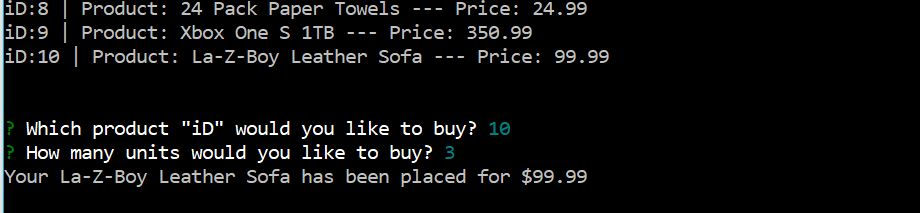
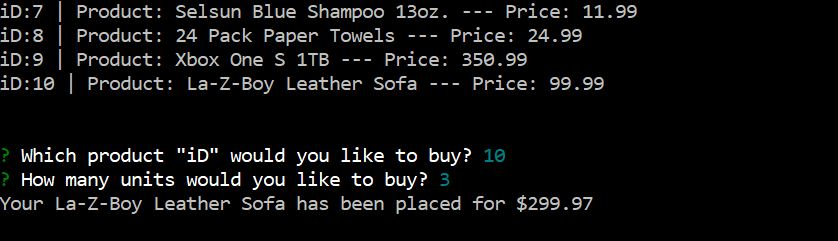
Auto stash before merge of "master" and "origin/master"
js updated

Changed region(s): [[0.0, 0.0, 0.7757, 1.0]]

diff --git a/bamazonCustomer.js b/bamazonCustomer.js
@@ -67,6 +67,8 @@ function afterConnection() {
                 console.log('Insufficient stock. There are only '+ avail + ' item(s) left.');
             }
             else {
+                sell = sell * inventory;
+                sell = sell.toFixed(2);
                 console.log('Your ' + title + ' has been placed for ' + "$" + sell)
             }
 
